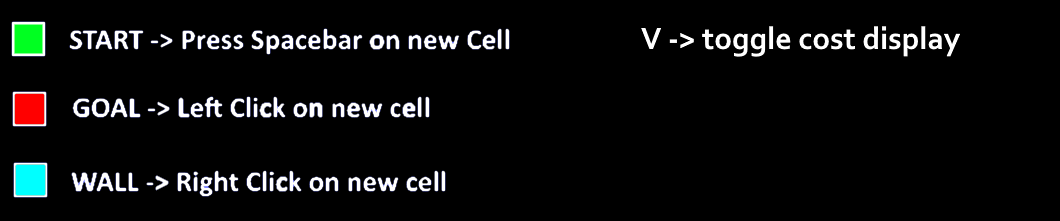
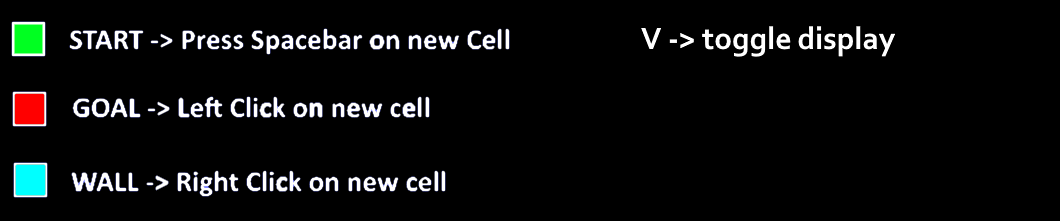
finished AI graph lab

Changed region(s): [[0.7472, 0.1086, 0.9028, 0.2443]]

diff --git a/GraphLab/Game.cpp b/GraphLab/Game.cpp
@@ -37,7 +37,6 @@ Game::~Game()
 void Game::init()
 {
 	lines.setPrimitiveType(sf::LinesStrip);
-	
 	srand(time(NULL));
 
 	for (int i = 0; i < 50; i++)
@@ -88,9 +87,9 @@ void Game::init()
 		//}
 		//grid.rect.setFillColor(grid.originalColor);
 	}
-
 	m_pathFinding.createAdjecancySets();
 	m_pathFinding.wavefrontAlgorithm();
+	createFieldVectors();
 	for (auto & grid : gameGrid)
 	{
 		if (grid.cell.isGoal)
@@ -134,6 +133,12 @@ void Game::init()
 	{
 		lines.append(sf::Vertex(sf::Vector2f(m_pathFinding.m_pathToGoal.at(i)->x, m_pathFinding.m_pathToGoal.at(i)->y), sf::Color::Red));
 	}
+
+
+
+	//fieldVectors.append(sf::Vertex(directionAsSFVector, sf::Color::Black));
+	//fieldVectors.append(sf::Vertex(positionAsSFVector, sf::Color::Black));
+
 
 	loop();
 }
@@ -191,6 +196,8 @@ void Game::loop()
 							{
 								m_pathFinding.createAdjecancySets();
 								recreateAdjecancySet = false;
+								createFieldVectors();
+
 							}
 							m_pathFinding.wavefrontAlgorithm();
 
@@ -225,7 +232,23 @@ void Game::loop()
 				}
 				if (event.key.code == sf::Keyboard::V)
 				{
-					isCostDisplayed = !isCostDisplayed;
+					if (!isCostDisplayed && !clearBoard)
+					{
+						isCostDisplayed = true;
+						isVectorFieldDisplayed = false;
+					}
+					else if (!isVectorFieldDisplayed)
+					{
+						isCostDisplayed = false;
+						isVectorFieldDisplayed = true;
+						clearBoard = true;
+					}
+					else
+					{
+						isCostDisplayed = false;
+						isVectorFieldDisplayed = false;
+						clearBoard = false;
+					}
 				}
 			default:
 				break;
@@ -254,6 +277,7 @@ void Game::loop()
 								recreateAdjecancySet = false;
 							}
 							m_pathFinding.wavefrontAlgorithm();
+							createFieldVectors();
 
 							for (auto& gameCell : gameGrid)
 							{
@@ -368,9 +392,18 @@ void Game::draw()
 			m_window.draw(cell.costLabel);
 		}
 	}
-	
-	m_window.draw(lines);
+
 	m_window.draw(m_infoSprite);
+	if (isVectorFieldDisplayed)
+	{
+		for (auto & strip : fieldVectors)
+		{
+			m_window.draw(strip);
+		}
+	}
+	m_window.draw(lines);
+
+
 	m_window.display();
 }
 
@@ -428,4 +461,17 @@ void Game::createObstacles()
 	gameGrid.at(2178).cell.blocked = true;
 
 
+}
+
+void Game::createFieldVectors()
+{
+	fieldVectors.clear();
+	for (int i = 0; i < m_pathFinding.m_openList.size(); i++)
+	{
+		sf::Vector2f directionAsSFVector = sf::Vector2f(m_pathFinding.m_openList.at(i)->m_direction.x, m_pathFinding.m_openList.at(i)->m_direction.y);
+		sf::Vector2f positionAsSFVector = sf::Vector2f(m_pathFinding.m_openList.at(i)->m_xCoord + 7.5, m_pathFinding.m_openList.at(i)->m_yCoord + 7.5);
+		fieldVectors.push_back(sf::VertexArray(sf::LineStrip));
+		fieldVectors.at(i).append(sf::Vertex(directionAsSFVector, sf::Color::White));
+		fieldVectors.at(i).append(sf::Vertex(positionAsSFVector, sf::Color::White));
+	}
 }

diff --git a/GraphLab/PathFinding.cpp b/GraphLab/PathFinding.cpp
@@ -134,8 +134,27 @@ void PathFinding::wavefrontAlgorithm()
 	}
 	m_pathToGoal.push_back(new Vector2D(m_goalCell->m_xCoord + m_cellOffset, m_goalCell->m_yCoord + m_cellOffset));
 
-	
-
+	for (int i = 0; i < m_openList.size(); i++)
+	{
+		if (!m_openList.at(i)->blocked)
+		{
+			GridCell* lowestCostCell = nullptr;
+			for (auto & cell : m_openList.at(i)->adjecancySet)
+			{
+				if (nullptr == lowestCostCell || lowestCostCell->GetF() > cell->GetF())
+				{
+					lowestCostCell = cell;
+				}
+			}
+			Vector2D cellCenter = Vector2D(m_openList.at(i)->m_xCoord + 7.5, m_openList.at(i)->m_yCoord + 7.5);
+			Vector2D cellVec = Vector2D(lowestCostCell->m_xCoord + 7.5, lowestCostCell->m_yCoord + 7.5);
+			m_openList.at(i)->m_direction = cellCenter + (cellVec - cellCenter);
+		}
+		else
+		{
+			m_openList.at(i)->m_direction = Vector2D(m_openList.at(i)->m_xCoord + 7.5, m_openList.at(i)->m_yCoord + 7.5);
+		}
+	}
 }
 
 /// <summary>

diff --git a/GraphLab/Game.h b/GraphLab/Game.h
@@ -31,6 +31,7 @@ public:
 	//draw the game elements
 	void draw();
 	void createObstacles();
+	void createFieldVectors();
 
 private:
 	//the render window object
@@ -54,7 +55,10 @@ private:
 	sf::VertexArray lines;
 	bool recreateAdjecancySet = false; //we will only recreate adjecancy sets if new obstacles were added
 	bool isCostDisplayed = false;
+	bool isVectorFieldDisplayed = false;
+	bool clearBoard = false;
 	sf::Texture m_info;
 	sf::Sprite m_infoSprite;
+	std::vector<sf::VertexArray> fieldVectors;
 };
 

diff --git a/GraphLab/GridCell.h b/GraphLab/GridCell.h
@@ -25,7 +25,7 @@ public:
 
 	GridCell(int x, int y, GridCell* _parent = 0) : m_xCoord(x), m_yCoord(y),
 		parent(_parent), m_id(x * WORLD_SIZE + y), G(0), H(0) {
-		m_direction = Vector2D(0, 0);
+		m_direction = Vector2D(m_xCoord + 7.5, m_yCoord + 7.5);
 	};
 
 	//G + H (
